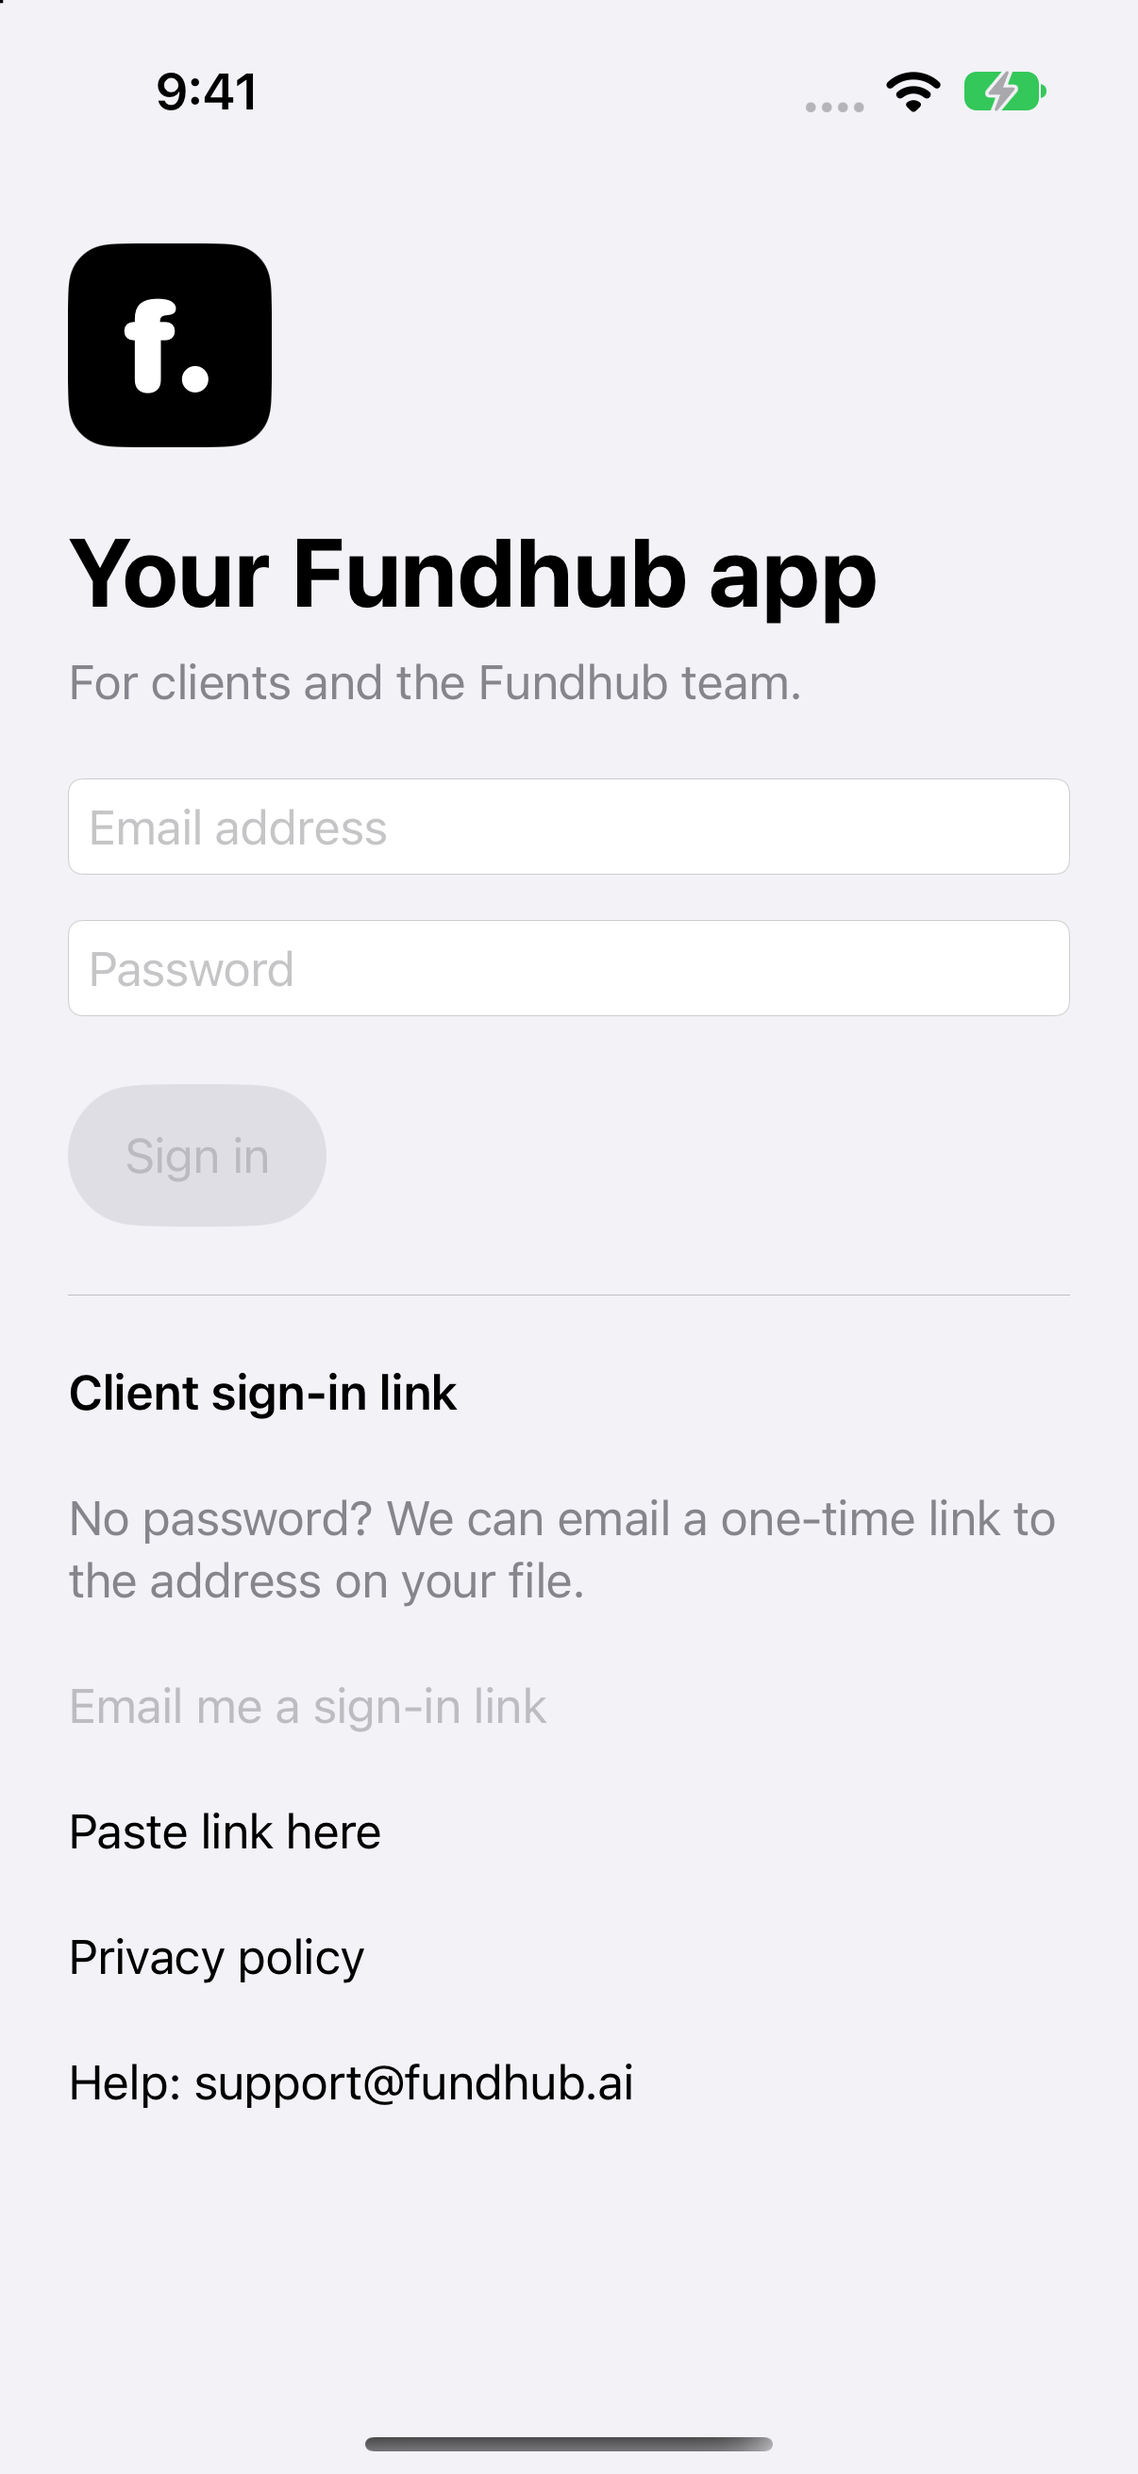
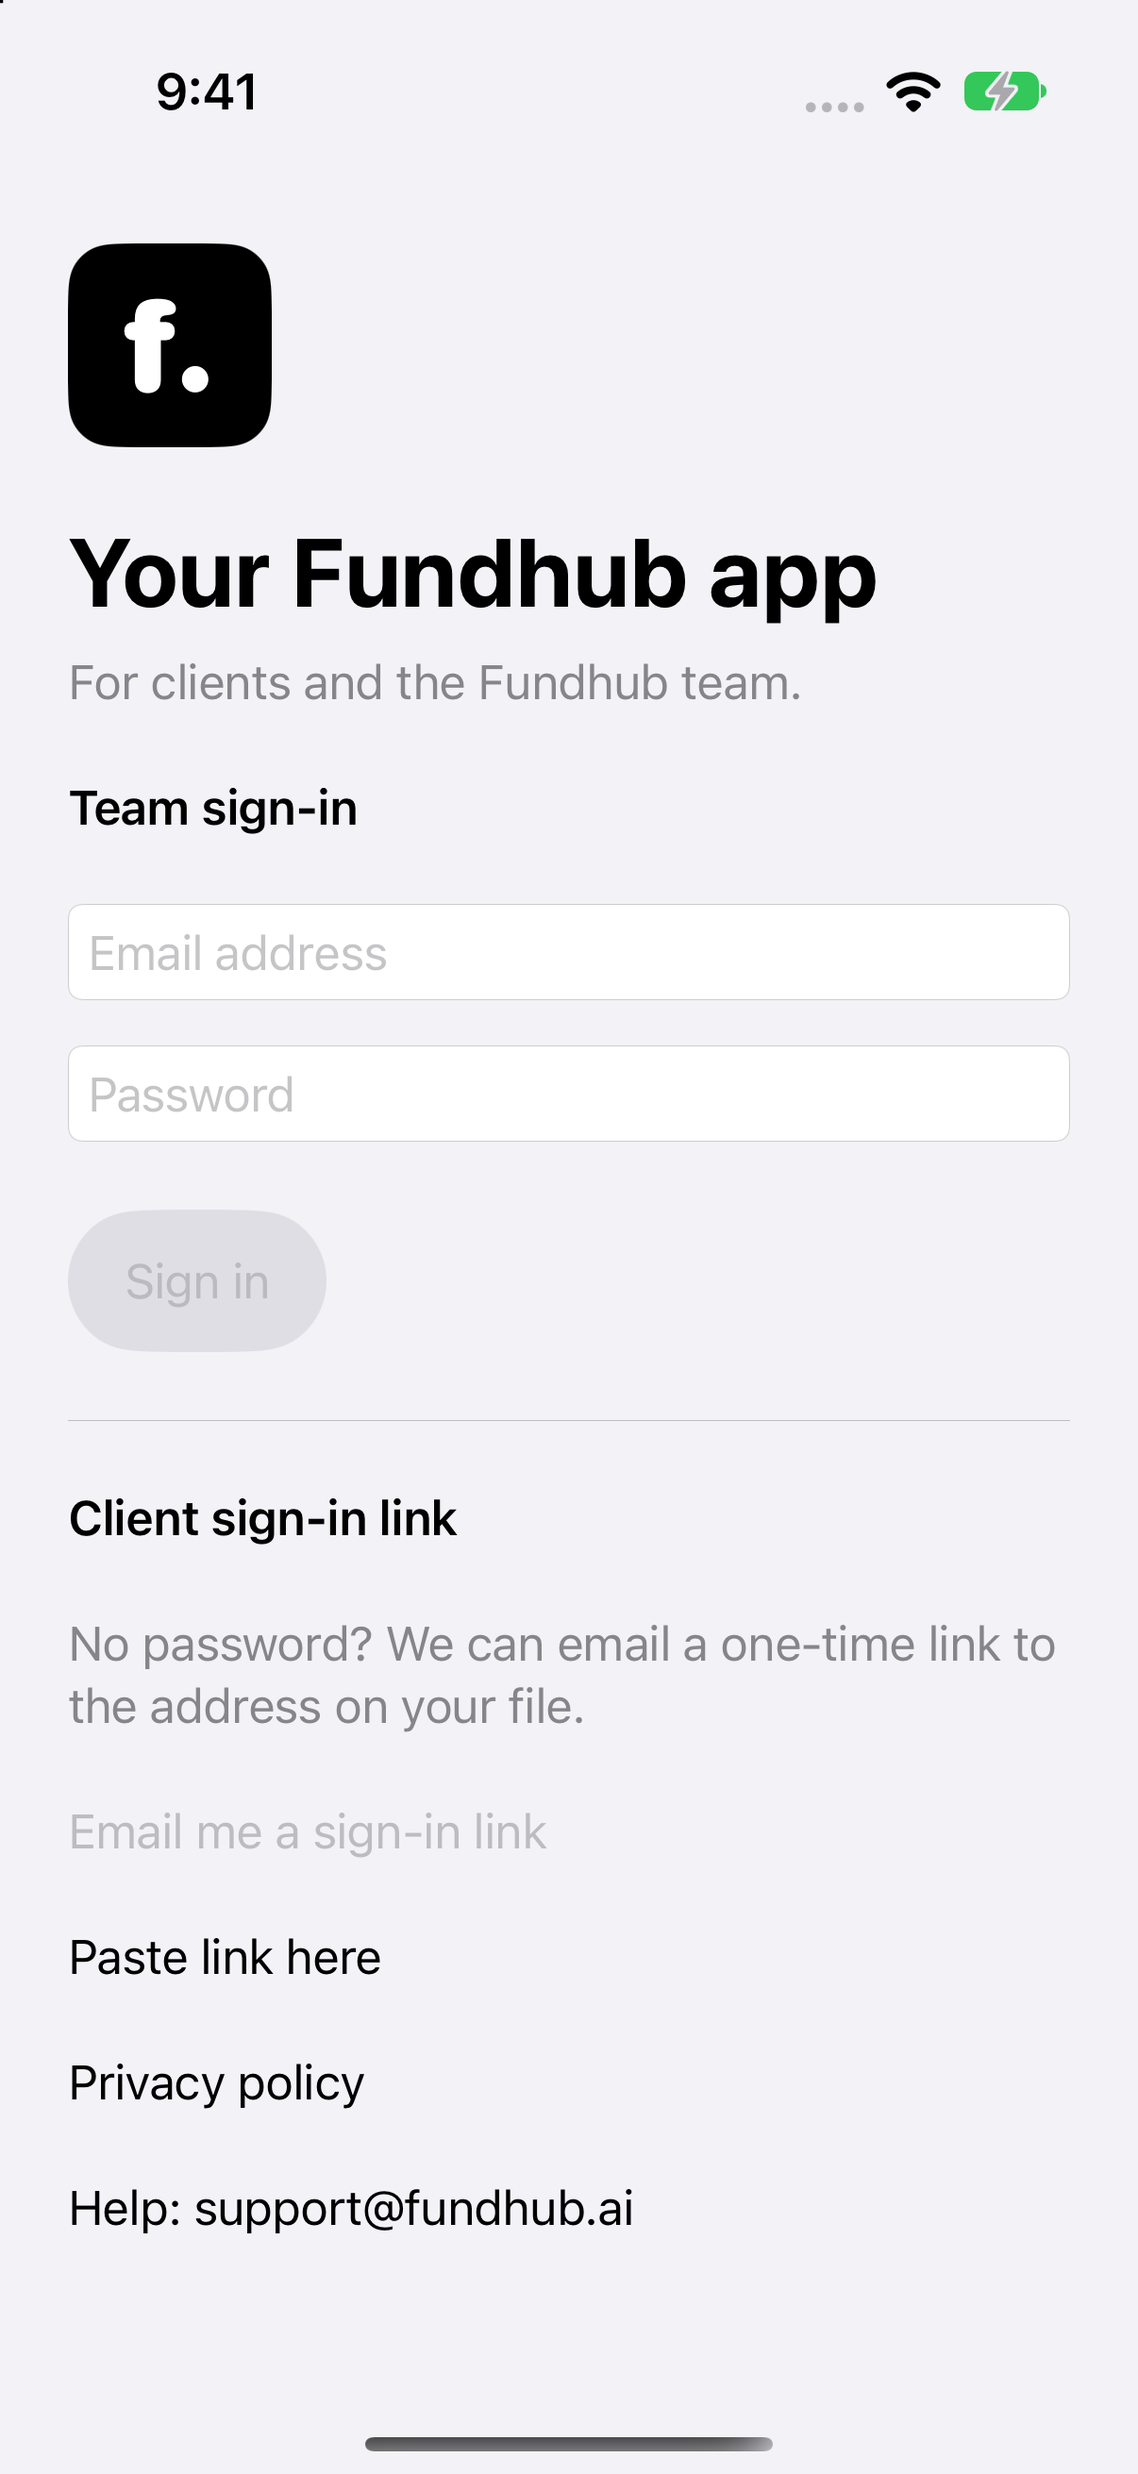
Close company app session and upload review gaps

diff --git a/tools/fundhub-ios/Fundhub/App/FundhubApp.swift b/tools/fundhub-ios/Fundhub/App/FundhubApp.swift
@@ -91,7 +91,10 @@ final class FundhubSessionStore: ObservableObject {
             if result.principal == "client" { await loadSummary() }
         } catch {
             // A network outage does not destroy a valid session.
-            if case FundhubAPIError.refused = error { signOut(); return }
+            if case FundhubAPIError.invalidSession = error {
+                await signOut(revoke: false)
+                return
+            }
             phase = .error
             message = error.localizedDescription
         }
@@ -107,23 +110,34 @@ final class FundhubSessionStore: ObservableObject {
             summary = result
             message = nil
         } catch {
+            if case FundhubAPIError.invalidSession = error {
+                await signOut(revoke: false)
+                return
+            }
             summary = nil
             message = "We could not load your file. Pull down to try again."
         }
     }
 
-    func signOut() {
+    func signOut(revoke: Bool = true) async {
+        phase = .checking
+        var revokeFailed = false
+        if revoke, let token {
+            do { try await api.logout(token: token) }
+            catch { revokeFailed = true }
+        }
         SessionKeychain.clear()
         token = nil
         identity = nil
         summary = nil
-        message = nil
-        phase = .signedOut
-        WKWebsiteDataStore.default().removeData(
+        message = revokeFailed
+            ? "Signed out on this iPhone, but Fundhub could not close the server session. Try again when connected."
+            : nil
+        await WKWebsiteDataStore.default().removeData(
             ofTypes: WKWebsiteDataStore.allWebsiteDataTypes(),
-            modifiedSince: .distantPast,
-            completionHandler: {}
+            modifiedSince: .distantPast
         )
+        phase = .signedOut
     }
 }
 
@@ -143,7 +157,7 @@ private struct RootView: View {
                     Text(store.message ?? "Check your connection and try again.")
                 } actions: {
                     Button("Try again") { Task { await store.refreshSession() } }
-                    Button("Sign out") { store.signOut() }
+                    Button("Sign out") { Task { await store.signOut() } }
                 }
             }
         }
@@ -163,6 +177,7 @@ private struct SignInView: View {
                     Text("Your Fundhub app").font(.largeTitle.bold())
                     Text("For clients and the Fundhub team.").foregroundStyle(.secondary)
                 }
+                Text("Team sign-in").font(.headline)
                 VStack(spacing: 16) {
                     TextField("Email address", text: $email)
                         .textContentType(.emailAddress).keyboardType(.emailAddress)
@@ -215,7 +230,7 @@ private struct HomeView: View {
             .navigationTitle("Fundhub")
             .toolbar {
                 ToolbarItem(placement: .topBarTrailing) {
-                    Button("Sign out") { store.signOut() }
+                    Button("Sign out") { Task { await store.signOut() } }
                 }
             }
             .safeAreaInset(edge: .bottom) {
@@ -233,7 +248,11 @@ private struct HomeView: View {
                             path: FundhubRole.workspacePath(
                                 principal: identity.principal,
                                 role: identity.staff.role
-                            )
+                            ),
+                            onWebSignOut: {
+                                showingWorkspace = false
+                                Task { await store.signOut(revoke: false) }
+                            }
                         )
                         .navigationTitle(identity.principal == "client" ? "Client portal" : "My workspace")
                         .navigationBarTitleDisplayMode(.inline)

diff --git a/tools/fundhub-ios/FundhubTests/FundhubTests.swift b/tools/fundhub-ios/FundhubTests/FundhubTests.swift
@@ -28,23 +28,58 @@ final class FundhubTests: XCTestCase {
         StubURLProtocol.handler = { request in
             XCTAssertEqual(request.url?.absoluteString, "https://fundhub.ai/api/read/portal-summary")
             XCTAssertEqual(request.value(forHTTPHeaderField: "Authorization"), "Bearer test-session")
-            return Data(#"{"ok":true,"stage":{"key":"booked"},"advisor":null,"documents":[],"invoice_due":{"count":0,"total_display":"$0.00"}}"#.utf8)
+            return (200, Data(#"{"ok":true,"stage":{"key":"booked"},"advisor":null,"documents":[],"invoice_due":{"count":0,"total_display":"$0.00"}}"#.utf8))
         }
         defer { StubURLProtocol.handler = nil }
         let summary = try await api.portalSummary(token: "test-session")
         XCTAssertEqual(summary.stage.title, "Getting started")
     }
+
+    func testNativeLogoutRevokesTheBearerSession() async throws {
+        let config = URLSessionConfiguration.ephemeral
+        config.protocolClasses = [StubURLProtocol.self]
+        let api = FundhubAPI(session: URLSession(configuration: config))
+        StubURLProtocol.handler = { request in
+            XCTAssertEqual(request.url?.path, "/api/auth/logout")
+            XCTAssertEqual(request.httpMethod, "POST")
+            XCTAssertEqual(request.value(forHTTPHeaderField: "Authorization"), "Bearer test-session")
+            return (200, Data(#"{"ok":true}"#.utf8))
+        }
+        defer { StubURLProtocol.handler = nil }
+        try await api.logout(token: "test-session")
+    }
+
+    func testServerErrorDoesNotInvalidateSession() async throws {
+        let config = URLSessionConfiguration.ephemeral
+        config.protocolClasses = [StubURLProtocol.self]
+        let api = FundhubAPI(session: URLSession(configuration: config))
+        StubURLProtocol.handler = { _ in (500, Data(#"{"ok":false}"#.utf8)) }
+        defer { StubURLProtocol.handler = nil }
+        do {
+            _ = try await api.identity(token: "test-session")
+            XCTFail("A 500 is not a valid session reply")
+        } catch FundhubAPIError.unavailable {
+            // Keep the Keychain token and allow a retry.
+        }
+    }
+
+    func testWebSignOutDestinationIsExact() {
+        XCTAssertTrue(WorkspaceNavigation.isSignOutDestination(URL(string: "https://fundhub.ai/portal-login.html")!))
+        XCTAssertTrue(WorkspaceNavigation.isSignOutDestination(URL(string: "https://fundhub.ai/login.html")!))
+        XCTAssertFalse(WorkspaceNavigation.isSignOutDestination(URL(string: "https://fundhub.ai/app/client-portal.html")!))
+        XCTAssertFalse(WorkspaceNavigation.isSignOutDestination(URL(string: "https://evil.example/login.html")!))
+    }
 }
 
 private final class StubURLProtocol: URLProtocol {
-    static var handler: ((URLRequest) -> Data)?
+    static var handler: ((URLRequest) -> (Int, Data))?
 
     override class func canInit(with request: URLRequest) -> Bool { true }
     override class func canonicalRequest(for request: URLRequest) -> URLRequest { request }
 
     override func startLoading() {
-        guard let data = Self.handler?(request), let url = request.url,
-              let response = HTTPURLResponse(url: url, statusCode: 200, httpVersion: nil, headerFields: nil) else {
+        guard let (status, data) = Self.handler?(request), let url = request.url,
+              let response = HTTPURLResponse(url: url, statusCode: status, httpVersion: nil, headerFields: nil) else {
             client?.urlProtocol(self, didFailWithError: FundhubAPIError.invalidResponse)
             return
         }

diff --git a/tools/fundhub-ios/Fundhub/Core/FundhubAPI.swift b/tools/fundhub-ios/Fundhub/Core/FundhubAPI.swift
@@ -3,12 +3,14 @@ import Security
 
 enum FundhubAPIError: LocalizedError {
     case unavailable
+    case invalidSession
     case refused(String)
     case invalidResponse
 
     var errorDescription: String? {
         switch self {
         case .unavailable: return "We could not reach Fundhub. Check your connection and try again."
+        case .invalidSession: return "That sign-in did not work. Check your details and try again."
         case .refused(let message): return message
         case .invalidResponse: return "Fundhub did not send a usable reply. Please try again."
         }
@@ -46,11 +48,16 @@ struct FundhubAPI {
         try await send("/api/read/portal-summary", bearer: token)
     }
 
+    func logout(token: String) async throws {
+        let reply: LogoutReply = try await send("/api/auth/logout", method: "POST", bearer: token)
+        guard reply.ok else { throw FundhubAPIError.unavailable }
+    }
+
     private func send<T: Decodable>(_ path: String, method: String = "GET", body: [String: String]? = nil, bearer: String? = nil) async throws -> T {
         var request = URLRequest(url: Self.base.appendingPathComponent(String(path.dropFirst())))
         request.httpMethod = method
         request.setValue("application/json", forHTTPHeaderField: "Accept")
-        request.timeoutInterval = 20
+        request.timeoutInterval = path == "/api/auth/logout" ? 5 : 20
         if let bearer { request.setValue("Bearer \(bearer)", forHTTPHeaderField: "Authorization") }
         if let body {
             request.setValue("application/json", forHTTPHeaderField: "Content-Type")
@@ -62,8 +69,8 @@ struct FundhubAPI {
         catch { throw FundhubAPIError.unavailable }
         guard let http = response as? HTTPURLResponse else { throw FundhubAPIError.invalidResponse }
         guard (200..<300).contains(http.statusCode) else {
-            if http.statusCode == 401 { throw FundhubAPIError.refused("That sign-in did not work. Check your details and try again.") }
-            if http.statusCode == 503 { throw FundhubAPIError.unavailable }
+            if http.statusCode == 401 { throw FundhubAPIError.invalidSession }
+            if http.statusCode >= 500 { throw FundhubAPIError.unavailable }
             throw FundhubAPIError.refused("Fundhub could not complete this request. Please try again.")
         }
         do { return try JSONDecoder().decode(T.self, from: data) }
@@ -74,6 +81,10 @@ struct FundhubAPI {
 private struct LinkReply: Decodable {
     let ok: Bool
     let message: String?
+}
+
+private struct LogoutReply: Decodable {
+    let ok: Bool
 }
 
 enum SessionKeychain {

diff --git a/tools/fundhub-ios/Fundhub/UI/WorkspaceWebView.swift b/tools/fundhub-ios/Fundhub/UI/WorkspaceWebView.swift
@@ -6,8 +6,9 @@ struct WorkspaceWebView: UIViewRepresentable {
     let principal: String
     let identity: FundhubIdentity
     let path: String
+    let onWebSignOut: () -> Void
 
-    func makeCoordinator() -> Coordinator { Coordinator() }
+    func makeCoordinator() -> Coordinator { Coordinator(onWebSignOut: onWebSignOut) }
 
     func makeUIView(context: Context) -> WKWebView {
         let config = WKWebViewConfiguration()
@@ -44,10 +45,21 @@ struct WorkspaceWebView: UIViewRepresentable {
     }
 
     final class Coordinator: NSObject, WKNavigationDelegate, WKUIDelegate {
+        let onWebSignOut: () -> Void
+
+        init(onWebSignOut: @escaping () -> Void) {
+            self.onWebSignOut = onWebSignOut
+        }
+
         func webView(_ webView: WKWebView, decidePolicyFor navigationAction: WKNavigationAction,
                      decisionHandler: @escaping (WKNavigationActionPolicy) -> Void) {
             guard let url = navigationAction.request.url else { decisionHandler(.cancel); return }
             if url.scheme == "https", url.host == "fundhub.ai" {
+                if WorkspaceNavigation.isSignOutDestination(url) {
+                    onWebSignOut()
+                    decisionHandler(.cancel)
+                    return
+                }
                 decisionHandler(.allow)
             } else {
                 if ["https", "mailto", "tel"].contains(url.scheme ?? "") { UIApplication.shared.open(url) }
@@ -63,5 +75,12 @@ struct WorkspaceWebView: UIViewRepresentable {
             }
             return nil
         }
+    }
+}
+
+enum WorkspaceNavigation {
+    static func isSignOutDestination(_ url: URL) -> Bool {
+        url.scheme == "https" && url.host == "fundhub.ai"
+            && (url.path == "/login.html" || url.path == "/portal-login.html")
     }
 }

diff --git a/ops/workflows/two-ios-apps-launch-2026-10-16.md b/ops/workflows/two-ios-apps-launch-2026-10-16.md
@@ -29,11 +29,12 @@ The saved permission for `appstoreconnect.apple.com` denies agent access. Do not
 ## Evidence so far
 
 - Company app project: `tools/fundhub-ios/Fundhub.xcodeproj`, bundle `ai.fundhub.app`, distinct from Prompter. Debug simulator build and unsigned Release iPhone build pass.
-- Simulator iPhone 17 XCTest: **4 passed, 0 failed** in `/tmp/fundhub-company-ios-tests-4.xcresult`, including a bearer-token API contract check. Login screen captured at `ops/workflows/build-evidence/fundhub-ios/sign-in-iphone17.png`.
+- Simulator iPhone 17 XCTest: **7 passed, 0 failed** in `/tmp/fundhub-company-ios-tests-6.xcresult`, including bearer-token reads, native logout, server-error retry, and web sign-out routing. Login screen captured at `ops/workflows/build-evidence/fundhub-ios/sign-in-iphone17.png`.
 - Public `fundhub.ai` health, staff login, portal login, and client portal all returned 200 on 2026-10-16. This is door proof, not a signed-in journey test.
 - Live demo logins are disabled. No non-customer App Review account exists yet. Physical iPhones were listed as unavailable by Xcode; no real-iPhone sign-in or camera/document test has been claimed.
 - Apple App Store record, signing profile, review submission, approval, and public company link are still unverified. The company App Store card remains hidden.
 - Prompter build 2 fixes a simulator startup crash, removes a 4K option the code did not provide, and adds privacy links. Its agent reports 56 passing simulator tests and an unsigned Release build; real-device filming and App Review are still open. Do **not** submit TestFlight build 1 for public review.
+- A separate native-app review found logout, retry, and photo-permission gaps. These are patched and covered by the seven passing tests. The unsigned Release build includes the camera and photo-library purpose strings.
 
 ## Parallel prompts
 

diff --git a/docs/journeys/fundhub-ios-intended.md b/docs/journeys/fundhub-ios-intended.md
@@ -2,18 +2,18 @@
 
 ## Clients
 
-1. A client signs in with their Fundhub email and password, or asks for an email link and pastes that link into the app.
+1. A client asks for an email link, copies it from the message without opening it, and pastes it into the app. Team members use the separate password form.
 2. The app verifies the server session and stores the token in the iPhone Keychain.
 3. Home reads `/api/read/portal-summary` under that client session. The server picks the client from the session, not from an ID in the app.
 4. The top of Home says where the file stands. Advisor, documents, and any amount due are shown only when the server returned them. A failed read says the file could not be loaded; it never paints a fake empty file.
 5. **Open full portal** opens the existing Fundhub portal in an in-app view for documents, payments, messages, and other detailed actions.
-6. Sign out removes the native token and in-app web data.
+6. Sign out asks the server to revoke the session, then removes the native token and in-app web data. If the server cannot be reached, the app says that revocation could not be confirmed.
 
 ## Employees
 
 1. An employee uses the same sign-in form and is identified by `/api/auth/session` as `staff`.
 2. Staff Home shows the real role and opens that role's existing workspace screen. The client summary is never requested under a staff session without a selected client.
-3. Sign out removes the native token and in-app web data.
+3. Signing out in the native Home or the web workspace leaves both signed out. The native action asks the server to revoke the session, then removes local data.
 
 ## States
 

diff --git a/tools/fundhub-ios/README.md b/tools/fundhub-ios/README.md
@@ -1,6 +1,6 @@
 # Fundhub iPhone app
 
-This is the **company app**, separate from `tools/teleprompter-ios/`. Its bundle ID is `ai.fundhub.app` (a proposed ID until Apple registers it). The app signs in clients and staff with the existing Fundhub API. Client Home reads the server-scoped file summary in native SwiftUI. Staff Home opens the role's existing work screen. The full client portal or staff workspace stays in an in-app web view for detailed actions.
+This is the **company app**, separate from `tools/teleprompter-ios/`. Its bundle ID is `ai.fundhub.app` (a proposed ID until Apple registers it). Staff sign in with a password; clients request and paste a one-time email link. Client Home reads the server-scoped file summary in native SwiftUI. Staff Home opens the role's existing work screen. The full client portal or staff workspace stays in an in-app web view for detailed actions.
 
 ## Build and tests
 
